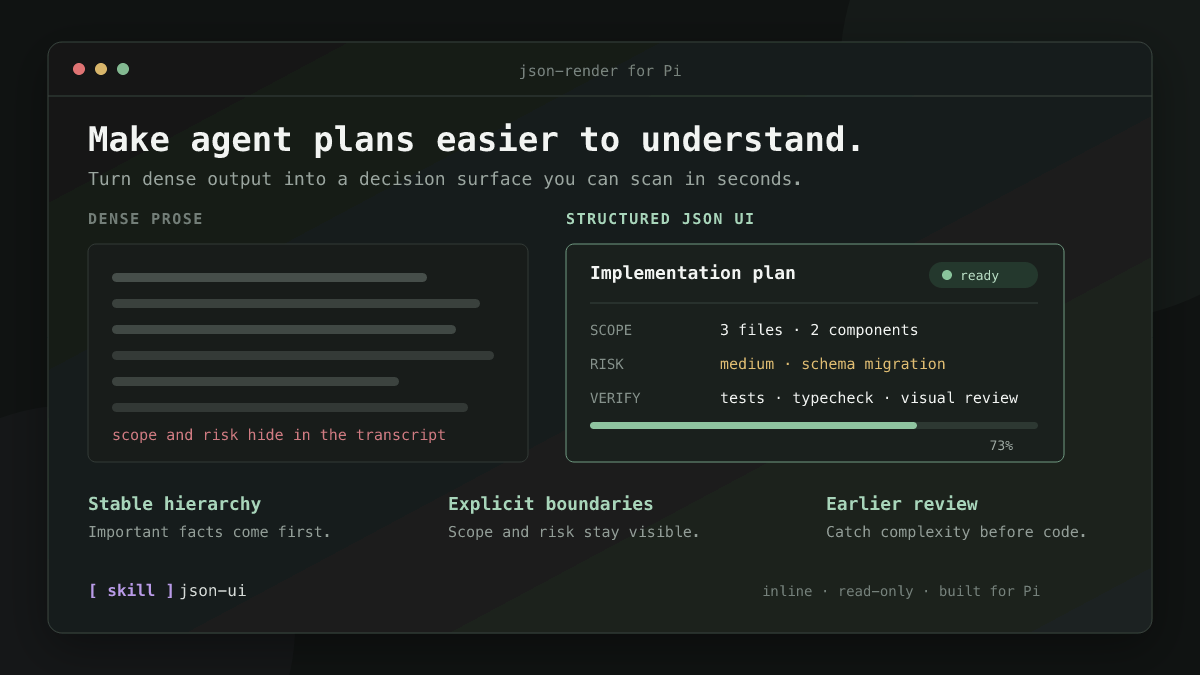
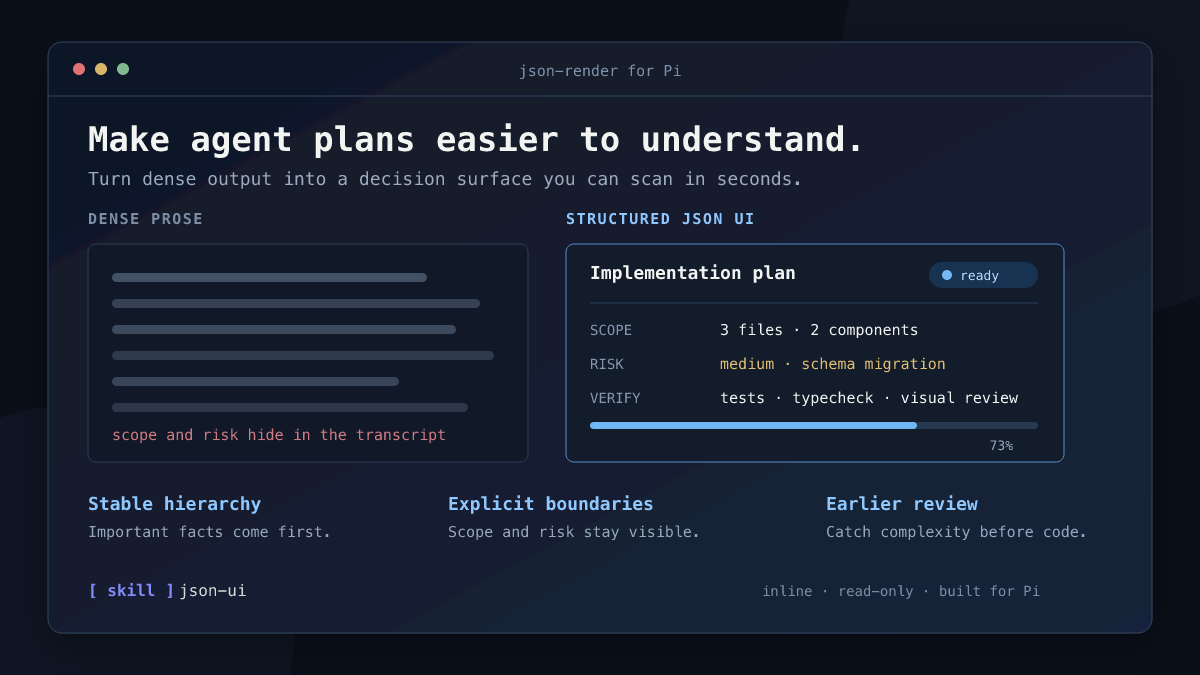
docs: refine announcement hero styling
Shift the README announcement artwork from a green-tinted palette to a clearer navy and blue visual system. Move the introductory marketing copy into the image alt text so the message remains accessible without duplicating it visually above the hero.\n\nRegenerated the PNG from the editable SVG, visually inspected the result, and verified the changes with git diff --check.

diff --git a/README.md b/README.md
@@ -1,12 +1,6 @@
 # json-render for Pi
 
-Turn dense agent output into compact, scannable terminal UI.
-
-Instead of parsing long blocks of prose, you can see plans, deployment status,
-progress, comparisons, tables, checklists, and metrics at a glance—directly in
-Pi's conversation.
-
-<img src="docs/images/announcement.png" alt="json-render for Pi turns dense agent prose into a structured plan with visible scope, risk, verification, and progress" width="1200">
+<img src="docs/images/announcement.png" alt="Turn dense agent output into compact, scannable terminal UI. Instead of parsing long blocks of prose, you can see plans, deployment status, progress, comparisons, tables, checklists, and metrics at a glance—directly in Pi's conversation." width="1200">
 
 ## Install in Pi
 
